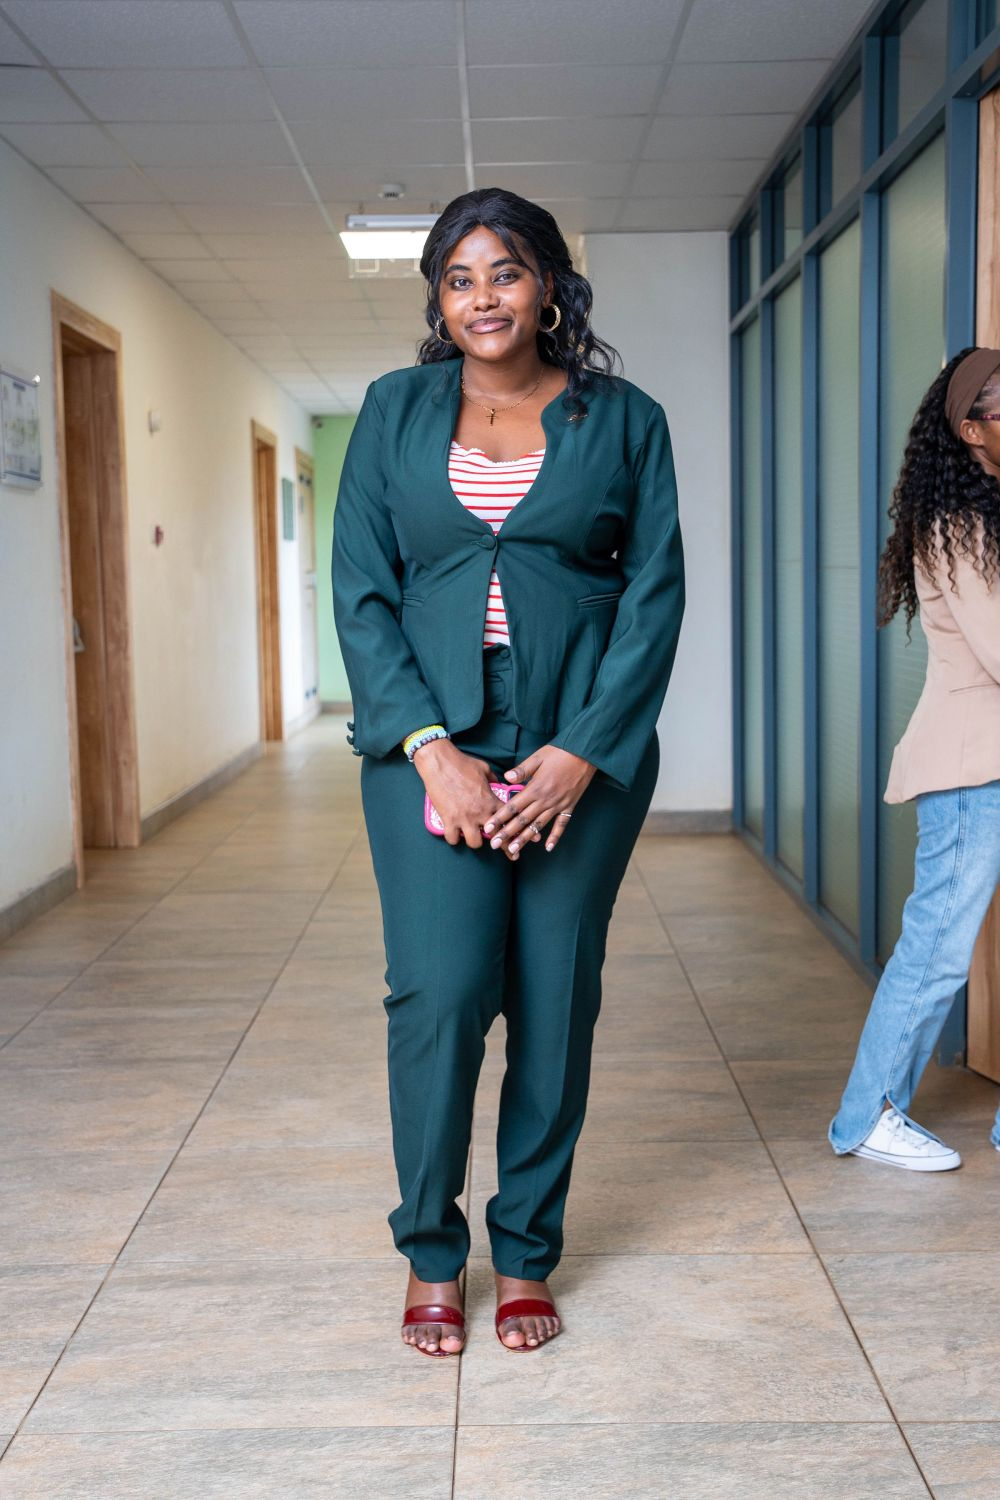
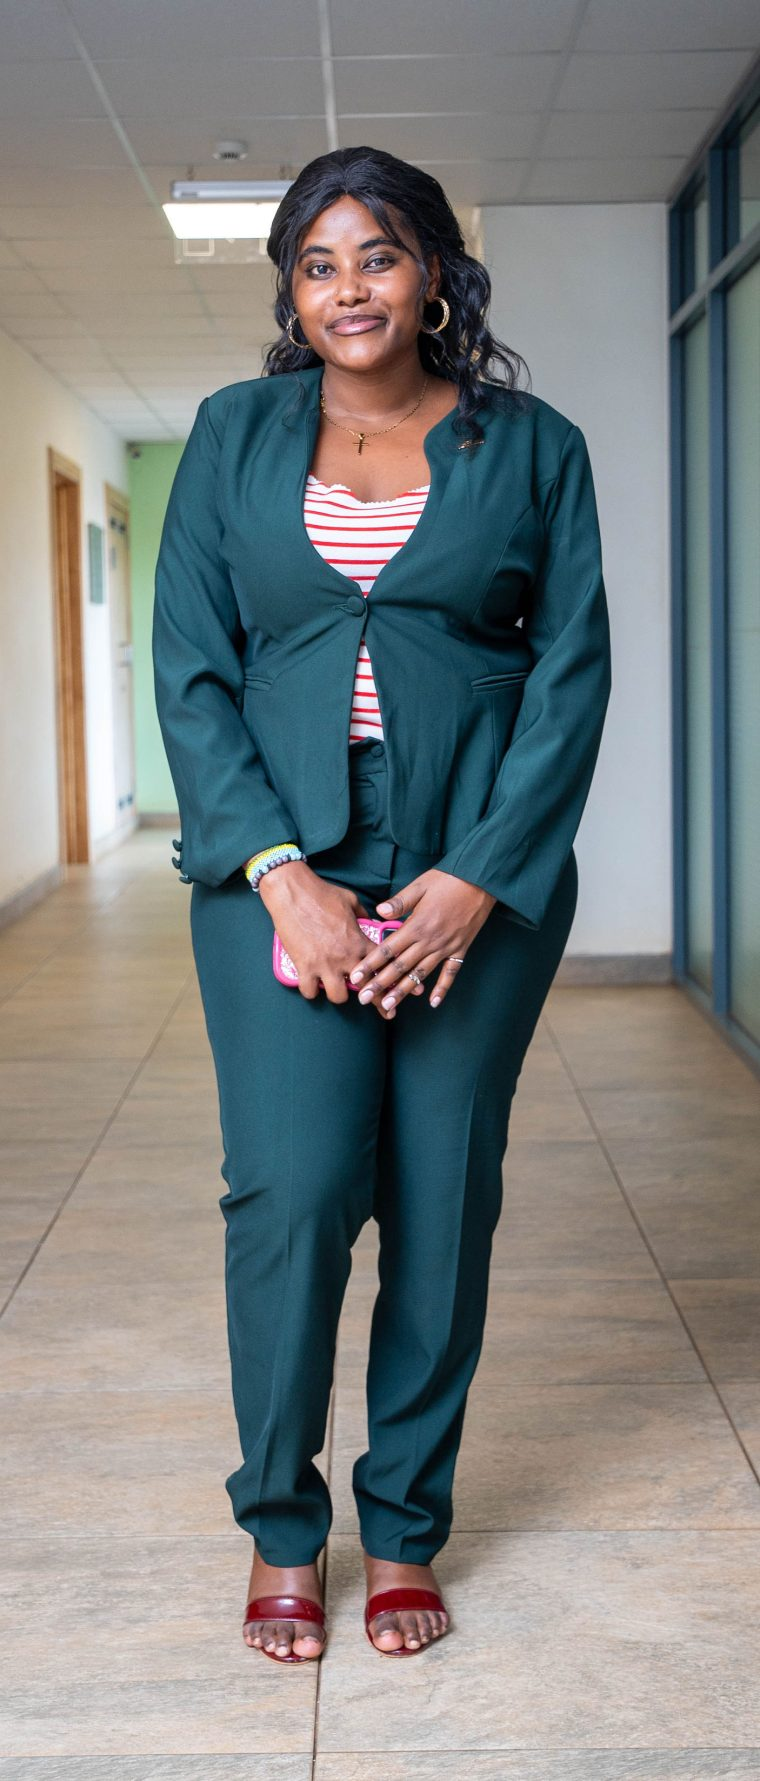
Home photo: cropped out the person on the right

diff --git a/site/index.html b/site/index.html
@@ -15,8 +15,8 @@
   <link rel="preconnect" href="https://fonts.gstatic.com" crossorigin>
   <link rel="stylesheet" href="https://fonts.googleapis.com/css2?family=Montserrat:wght@600;700;800&family=Ubuntu:wght@400;500;700&display=swap">
   <link rel="stylesheet" href="https://cdnjs.cloudflare.com/ajax/libs/font-awesome/6.5.2/css/all.min.css">
-  <link rel="stylesheet" href="/css/style.css?v=1990763">
-  <script type="module" src="/js/site.js?v=1990763"></script>
+  <link rel="stylesheet" href="/css/style.css?v=2339289">
+  <script type="module" src="/js/site.js?v=2339289"></script>
 </head>
 <body data-page="home">
 <a class="skip" href="#main">Skip to content</a>
@@ -51,7 +51,7 @@
         <a class="btn ghost" href="/resume.pdf"><i class="fas fa-file-arrow-down"></i> Download résumé</a>
       </div>
     </div>
-    <div class="portrait"><img src="/img/founder1.jpg" alt="Martha Iradukunda" width="1000" height="1500" style="border-radius:var(--radius);box-shadow:var(--shadow)"></div>
+    <div class="portrait"><img src="/img/founder1.jpg" alt="Martha Iradukunda" width="760" height="1781" style="border-radius:var(--radius);box-shadow:var(--shadow)"></div>
   </div>
 </section>
 

diff --git a/site/portifolio.html b/site/portifolio.html
@@ -15,8 +15,8 @@
   <link rel="preconnect" href="https://fonts.gstatic.com" crossorigin>
   <link rel="stylesheet" href="https://fonts.googleapis.com/css2?family=Montserrat:wght@600;700;800&family=Ubuntu:wght@400;500;700&display=swap">
   <link rel="stylesheet" href="https://cdnjs.cloudflare.com/ajax/libs/font-awesome/6.5.2/css/all.min.css">
-  <link rel="stylesheet" href="/css/style.css?v=1990763">
-  <script type="module" src="/js/site.js?v=1990763"></script>
+  <link rel="stylesheet" href="/css/style.css?v=2339289">
+  <script type="module" src="/js/site.js?v=2339289"></script>
 </head>
 <body data-page="portifolio">
 <a class="skip" href="#main">Skip to content</a>

diff --git a/site/contacts.html b/site/contacts.html
@@ -15,8 +15,8 @@
   <link rel="preconnect" href="https://fonts.gstatic.com" crossorigin>
   <link rel="stylesheet" href="https://fonts.googleapis.com/css2?family=Montserrat:wght@600;700;800&family=Ubuntu:wght@400;500;700&display=swap">
   <link rel="stylesheet" href="https://cdnjs.cloudflare.com/ajax/libs/font-awesome/6.5.2/css/all.min.css">
-  <link rel="stylesheet" href="/css/style.css?v=1990763">
-  <script type="module" src="/js/site.js?v=1990763"></script>
+  <link rel="stylesheet" href="/css/style.css?v=2339289">
+  <script type="module" src="/js/site.js?v=2339289"></script>
 </head>
 <body data-page="contacts">
 <a class="skip" href="#main">Skip to content</a>

diff --git a/site/resume.html b/site/resume.html
@@ -15,8 +15,8 @@
   <link rel="preconnect" href="https://fonts.gstatic.com" crossorigin>
   <link rel="stylesheet" href="https://fonts.googleapis.com/css2?family=Montserrat:wght@600;700;800&family=Ubuntu:wght@400;500;700&display=swap">
   <link rel="stylesheet" href="https://cdnjs.cloudflare.com/ajax/libs/font-awesome/6.5.2/css/all.min.css">
-  <link rel="stylesheet" href="/css/style.css?v=1990763">
-  <script type="module" src="/js/site.js?v=1990763"></script>
+  <link rel="stylesheet" href="/css/style.css?v=2339289">
+  <script type="module" src="/js/site.js?v=2339289"></script>
 </head>
 <body data-page="resume">
 <a class="skip" href="#main">Skip to content</a>

diff --git a/site/skills.html b/site/skills.html
@@ -15,8 +15,8 @@
   <link rel="preconnect" href="https://fonts.gstatic.com" crossorigin>
   <link rel="stylesheet" href="https://fonts.googleapis.com/css2?family=Montserrat:wght@600;700;800&family=Ubuntu:wght@400;500;700&display=swap">
   <link rel="stylesheet" href="https://cdnjs.cloudflare.com/ajax/libs/font-awesome/6.5.2/css/all.min.css">
-  <link rel="stylesheet" href="/css/style.css?v=1990763">
-  <script type="module" src="/js/site.js?v=1990763"></script>
+  <link rel="stylesheet" href="/css/style.css?v=2339289">
+  <script type="module" src="/js/site.js?v=2339289"></script>
 </head>
 <body data-page="skills">
 <a class="skip" href="#main">Skip to content</a>

diff --git a/site/about.html b/site/about.html
@@ -15,8 +15,8 @@
   <link rel="preconnect" href="https://fonts.gstatic.com" crossorigin>
   <link rel="stylesheet" href="https://fonts.googleapis.com/css2?family=Montserrat:wght@600;700;800&family=Ubuntu:wght@400;500;700&display=swap">
   <link rel="stylesheet" href="https://cdnjs.cloudflare.com/ajax/libs/font-awesome/6.5.2/css/all.min.css">
-  <link rel="stylesheet" href="/css/style.css?v=1990763">
-  <script type="module" src="/js/site.js?v=1990763"></script>
+  <link rel="stylesheet" href="/css/style.css?v=2339289">
+  <script type="module" src="/js/site.js?v=2339289"></script>
 </head>
 <body data-page="about">
 <a class="skip" href="#main">Skip to content</a>

diff --git a/site/blogs.html b/site/blogs.html
@@ -15,8 +15,8 @@
   <link rel="preconnect" href="https://fonts.gstatic.com" crossorigin>
   <link rel="stylesheet" href="https://fonts.googleapis.com/css2?family=Montserrat:wght@600;700;800&family=Ubuntu:wght@400;500;700&display=swap">
   <link rel="stylesheet" href="https://cdnjs.cloudflare.com/ajax/libs/font-awesome/6.5.2/css/all.min.css">
-  <link rel="stylesheet" href="/css/style.css?v=1990763">
-  <script type="module" src="/js/site.js?v=1990763"></script>
+  <link rel="stylesheet" href="/css/style.css?v=2339289">
+  <script type="module" src="/js/site.js?v=2339289"></script>
 </head>
 <body data-page="blogs">
 <a class="skip" href="#main">Skip to content</a>

diff --git a/site/blog.html b/site/blog.html
@@ -15,8 +15,8 @@
   <link rel="preconnect" href="https://fonts.gstatic.com" crossorigin>
   <link rel="stylesheet" href="https://fonts.googleapis.com/css2?family=Montserrat:wght@600;700;800&family=Ubuntu:wght@400;500;700&display=swap">
   <link rel="stylesheet" href="https://cdnjs.cloudflare.com/ajax/libs/font-awesome/6.5.2/css/all.min.css">
-  <link rel="stylesheet" href="/css/style.css?v=1990763">
-  <script type="module" src="/js/site.js?v=1990763"></script>
+  <link rel="stylesheet" href="/css/style.css?v=2339289">
+  <script type="module" src="/js/site.js?v=2339289"></script>
 </head>
 <body data-page="blog">
 <a class="skip" href="#main">Skip to content</a>

diff --git a/site/dashboard/index.html b/site/dashboard/index.html
@@ -15,8 +15,8 @@
   <link rel="preconnect" href="https://fonts.gstatic.com" crossorigin>
   <link rel="stylesheet" href="https://fonts.googleapis.com/css2?family=Montserrat:wght@600;700;800&family=Ubuntu:wght@400;500;700&display=swap">
   <link rel="stylesheet" href="https://cdnjs.cloudflare.com/ajax/libs/font-awesome/6.5.2/css/all.min.css">
-  <link rel="stylesheet" href="/css/style.css?v=1990763">
-  <script type="module" src="/js/site.js?v=1990763"></script>
+  <link rel="stylesheet" href="/css/style.css?v=2339289">
+  <script type="module" src="/js/site.js?v=2339289"></script>
   <meta name="robots" content="noindex">
 </head>
 <body data-page="dashboard">

diff --git a/site/login.html b/site/login.html
@@ -15,8 +15,8 @@
   <link rel="preconnect" href="https://fonts.gstatic.com" crossorigin>
   <link rel="stylesheet" href="https://fonts.googleapis.com/css2?family=Montserrat:wght@600;700;800&family=Ubuntu:wght@400;500;700&display=swap">
   <link rel="stylesheet" href="https://cdnjs.cloudflare.com/ajax/libs/font-awesome/6.5.2/css/all.min.css">
-  <link rel="stylesheet" href="/css/style.css?v=1990763">
-  <script type="module" src="/js/site.js?v=1990763"></script>
+  <link rel="stylesheet" href="/css/style.css?v=2339289">
+  <script type="module" src="/js/site.js?v=2339289"></script>
   <meta name="robots" content="noindex">
 </head>
 <body data-page="login">

diff --git a/site/404.html b/site/404.html
@@ -15,8 +15,8 @@
   <link rel="preconnect" href="https://fonts.gstatic.com" crossorigin>
   <link rel="stylesheet" href="https://fonts.googleapis.com/css2?family=Montserrat:wght@600;700;800&family=Ubuntu:wght@400;500;700&display=swap">
   <link rel="stylesheet" href="https://cdnjs.cloudflare.com/ajax/libs/font-awesome/6.5.2/css/all.min.css">
-  <link rel="stylesheet" href="/css/style.css?v=1990763">
-  <script type="module" src="/js/site.js?v=1990763"></script>
+  <link rel="stylesheet" href="/css/style.css?v=2339289">
+  <script type="module" src="/js/site.js?v=2339289"></script>
   <meta name="robots" content="noindex">
 </head>
 <body data-page="404">

diff --git a/src/pages/index.html b/src/pages/index.html
@@ -13,7 +13,7 @@
         <a class="btn ghost" href="/resume.pdf"><i class="fas fa-file-arrow-down"></i> Download résumé</a>
       </div>
     </div>
-    <div class="portrait"><img src="/img/founder1.jpg" alt="Martha Iradukunda" width="1000" height="1500" style="border-radius:var(--radius);box-shadow:var(--shadow)"></div>
+    <div class="portrait"><img src="/img/founder1.jpg" alt="Martha Iradukunda" width="760" height="1781" style="border-radius:var(--radius);box-shadow:var(--shadow)"></div>
   </div>
 </section>
 
